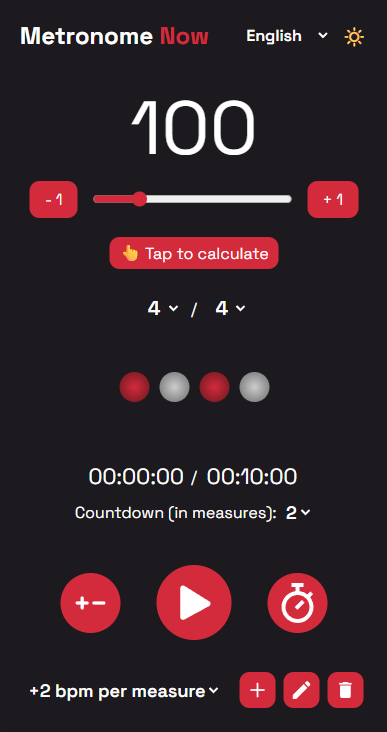
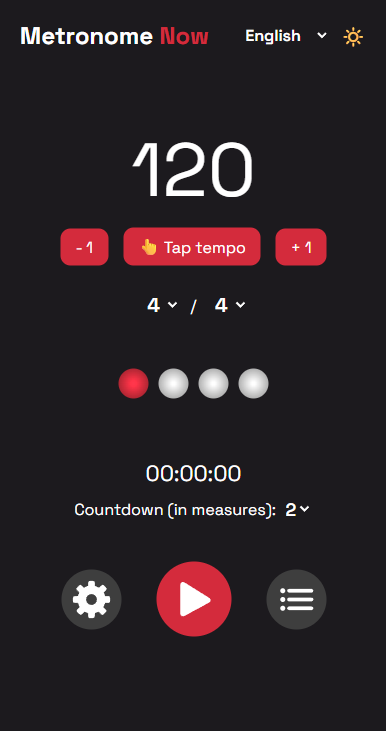
replace images and change manifest colors

diff --git a/vite.config.ts b/vite.config.ts
@@ -17,8 +17,8 @@ export default defineConfig({
         name: "Metronome Now",
         short_name: "Metronome Now",
         description: "Online metronome for your everyday needs",
-        theme_color: "#d63444",
-        background_color: "#201E23",
+        theme_color: "#d42b3c",
+        background_color: "#1c1a1e",
         scope: "/",
         start_url: "/",
         icons: [
@@ -44,16 +44,29 @@ export default defineConfig({
         screenshots: [
           {
             src: "/images/screenshots/mobile_screencap.png",
-            sizes: "387x732",
+            sizes: "386x731",
             type: "image/png",
-            label: "Metronome now"
+            label: "Metronome Now"
+          },
+          {
+            src: "/images/screenshots/mobile_screencap_2.png",
+            sizes: "387x730",
+            type: "image/png",
+            label: "Metronome Now - Templates"
           },
           {
             src: "/images/screenshots/desktop_screencap.png",
-            sizes: "1275x696",
+            sizes: "1276x715",
             type: "image/png",
             form_factor: "wide",
-            label: "Metronome now"
+            label: "Metronome Now"
+          },
+          {
+            src: "/images/screenshots/desktop_screencap_2.png",
+            sizes: "1279x719",
+            type: "image/png",
+            form_factor: "wide",
+            label: "Metronome Now - Templates"
           },
         ]
       }
